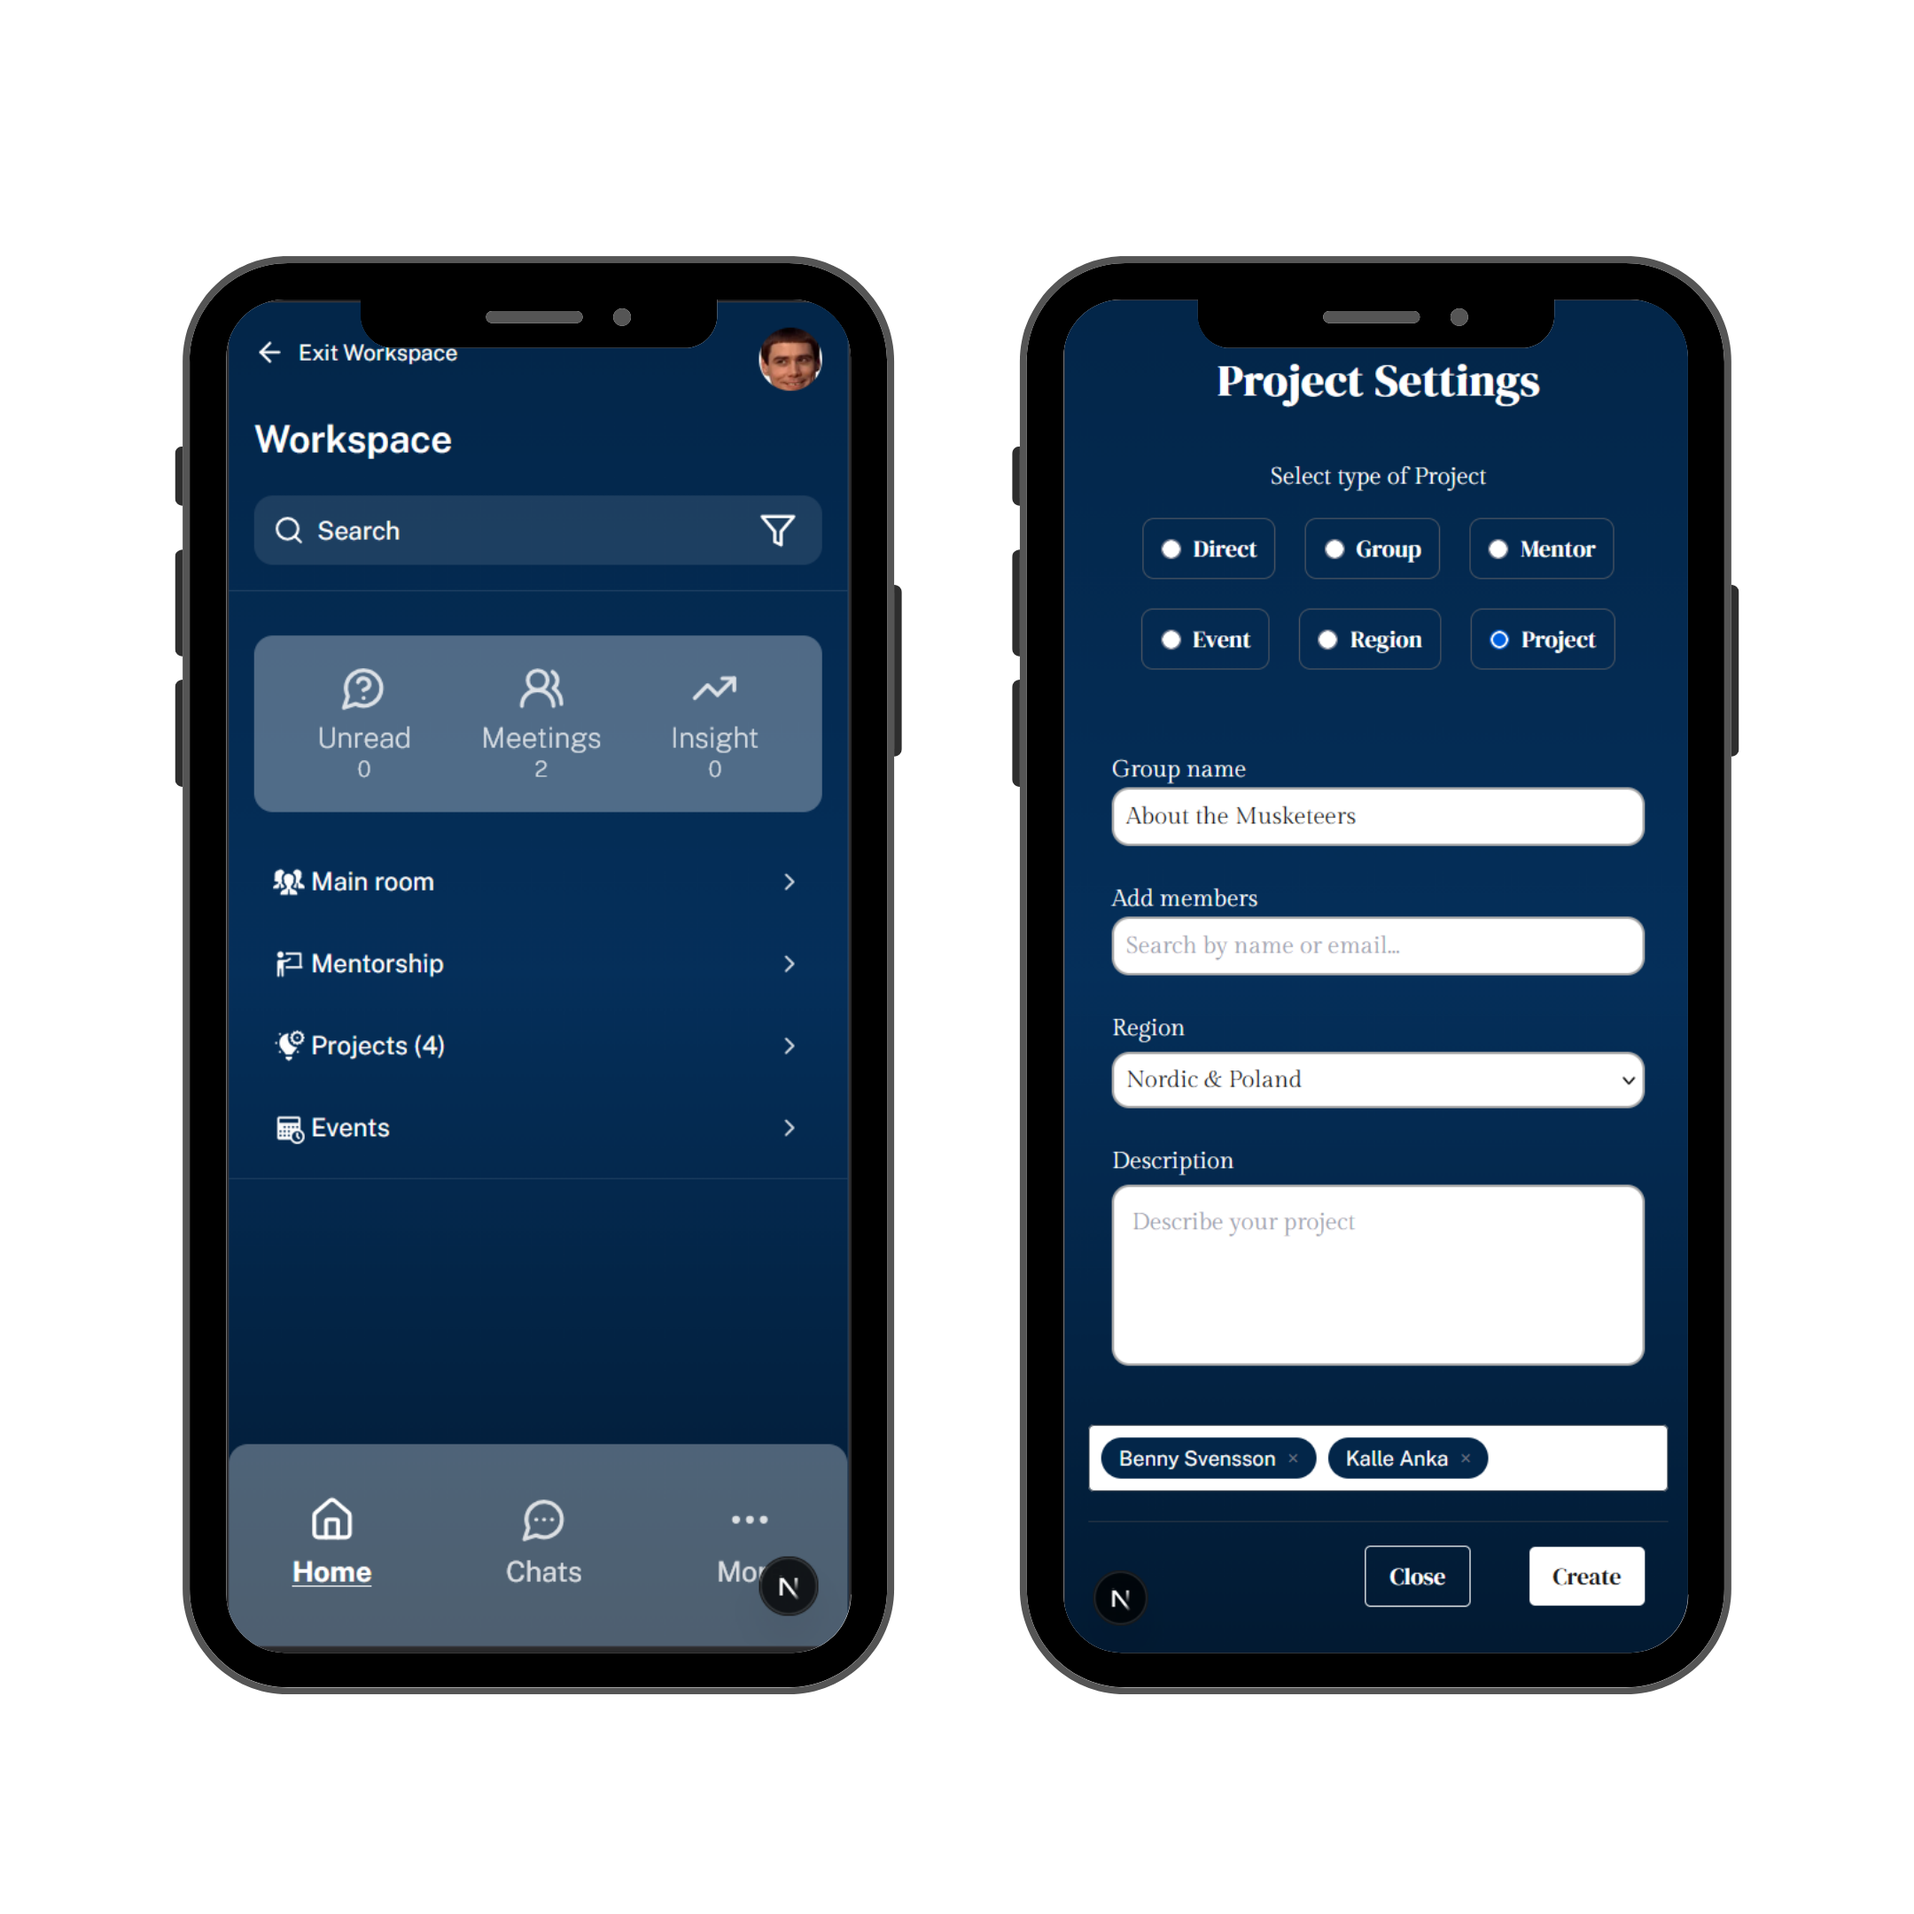
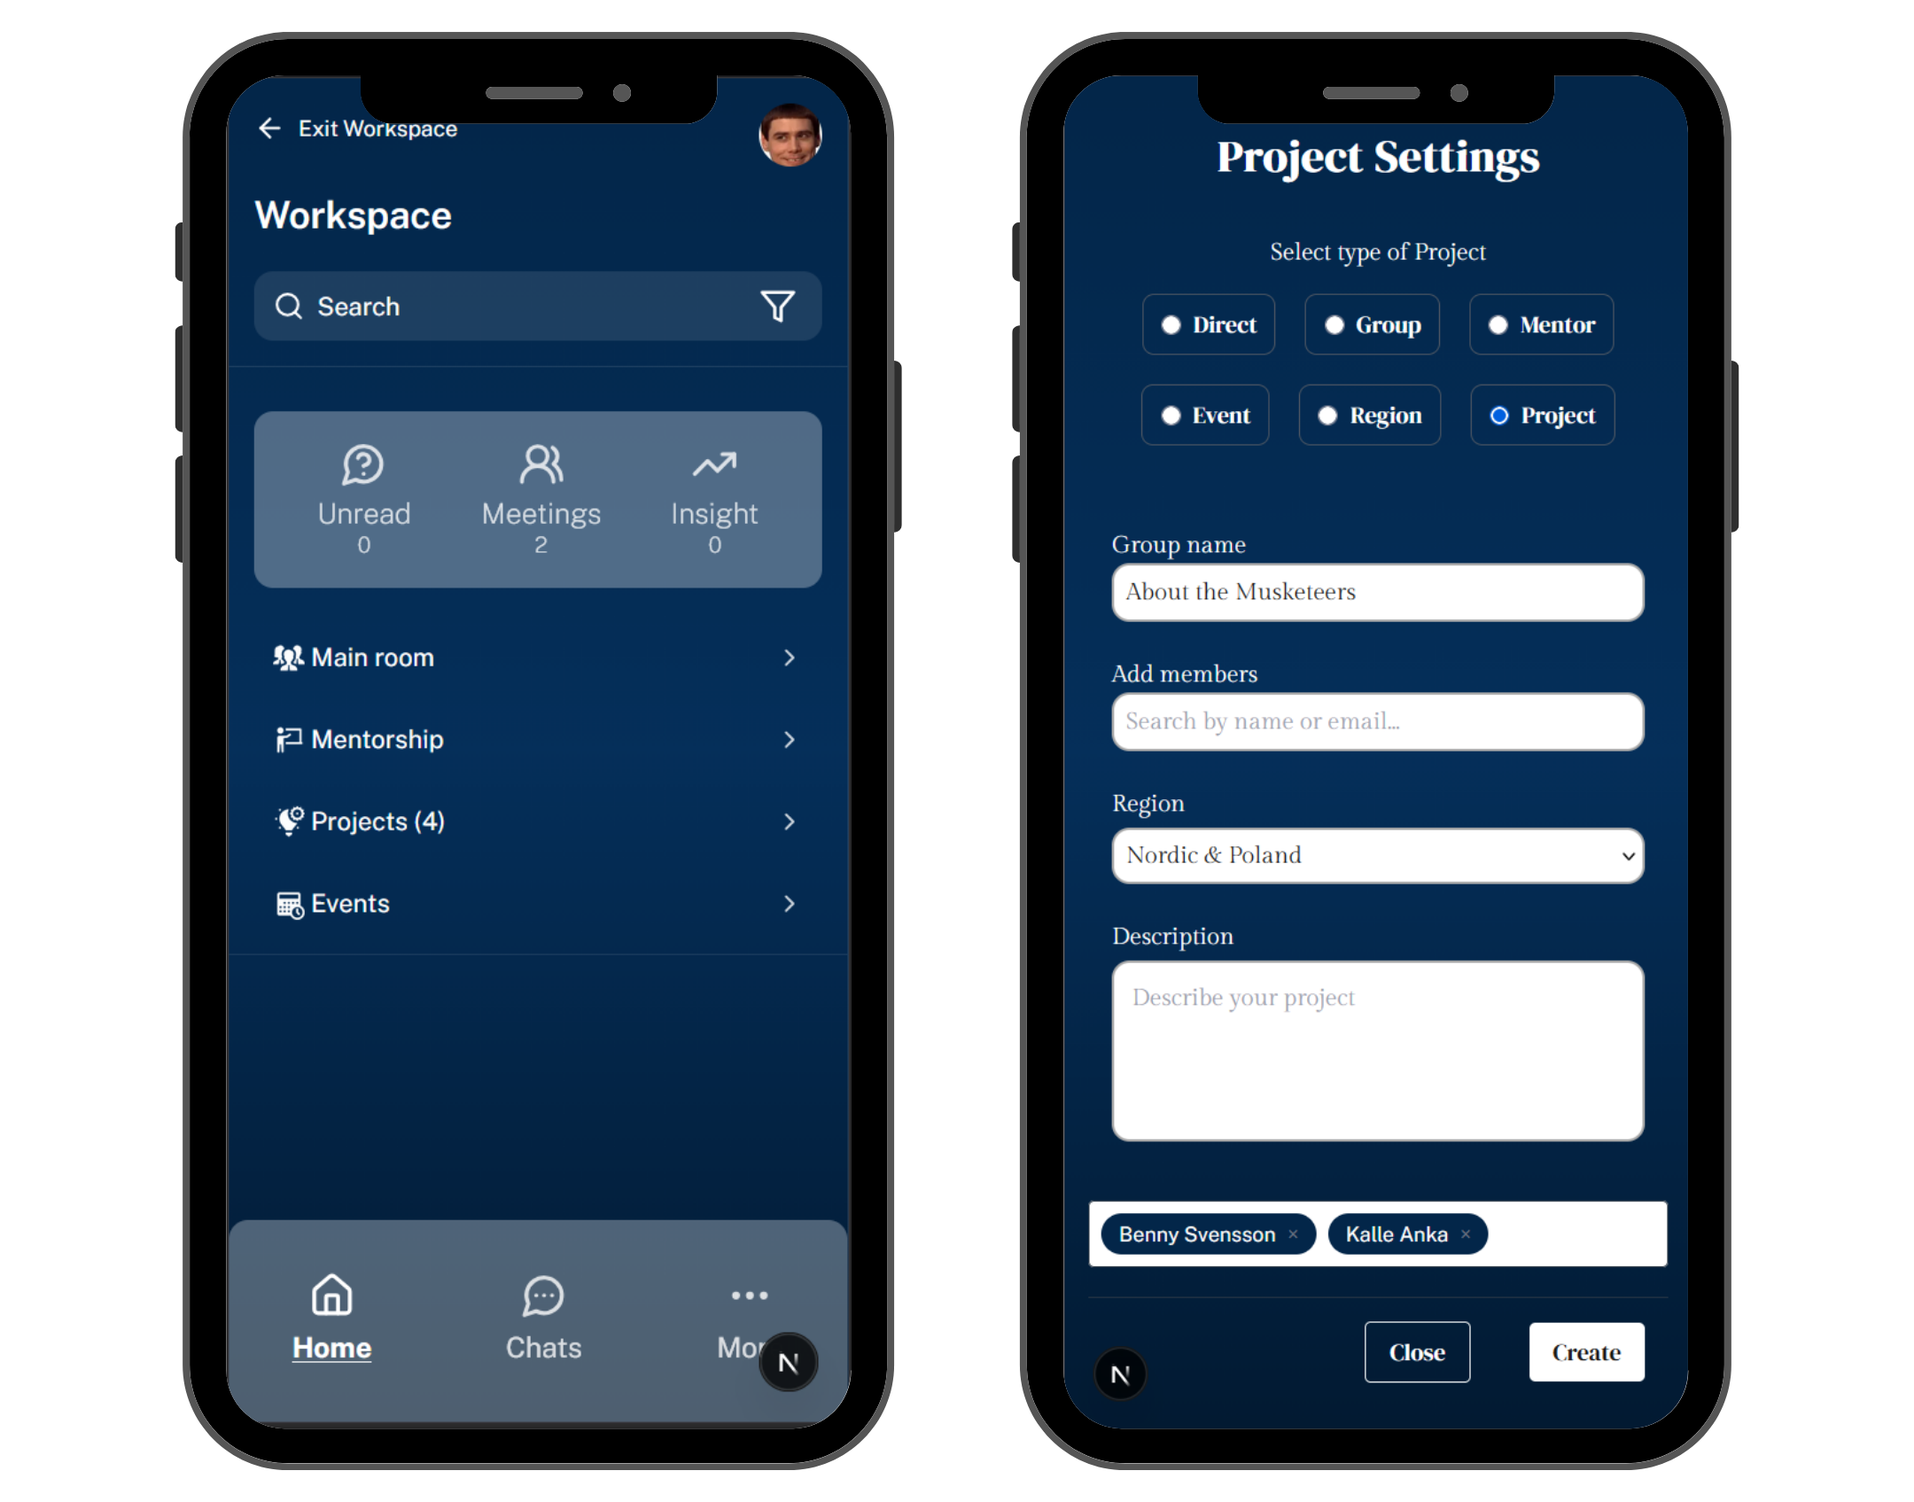
feat(internship): replaced images

diff --git a/components/sections/Featured.tsx b/components/sections/Featured.tsx
@@ -16,32 +16,34 @@ const Featured = () => {
   return (
     <motion.section
       id="featured"
-      className="relative z-10 bg-[#F0F0F0]  text-black min-h-screen"
+      className="relative z-10 bg-[#ededed] text-black py-10"
       initial="hidden"
       whileInView="visible"
       variants={sectionVariants}
       viewport={{ once: true, amount: 0.25 }}
     >
-      <div className="  mx-auto min-h-screen text-black bg-none w-full px-4 md:pb-10">
-        <div className="grid grid-cols-1 lg:grid-cols-2 min-h-screen -mx-4 items-center">
-          <div className="relative min-h-[60vw] lg:min-h-0  aspect-[3/3]">
+      <div className="  mx-auto  text-black bg-none w-full px-4 md:pb-10">
+        {" "}
+        <div className="flex flex-col lg:grid lg:grid-cols-2 -mx-4 items-center">
+          <div className="relative w-[60%] lg:w-[80%]  mx-auto aspect-[3/3]  lg:min-h-0">
             <Image
               src="/images/internship_mobiles.png"
               alt="Experience"
               fill
-              className="object-cover "
+              className="object-cover overflow-visible lg:ml-5"
             />
           </div>
-          <div className="relative flex flex-col items-center justify-start lg:justify-center px-6 mt-4 sm:my-6 lg:my-0 lg:px-10 gap-[clamp(2.2rem,4vw,3rem)] max-w-lg md:max-w-5xl 2xl:max-w-5xl mx-auto">
-            <div className="lg:px-8 flex flex-col items-center gap-2">
-              <h2 className="font-gilda text-2xl lg:text-6xl text-center ">
-                Internship 2026
-              </h2>
-              <ul className="space-y-4 mt-5 text-sm font-light sm:text-xl lg:mt-5">
+          <div className=" flex flex-col items-start justify-start lg:justify-center px-6 mt-4 lg:my-0 lg:px-10    md:max-w-5xl 2xl:max-w-5xl mx-auto gap-3 md:gap-5">
+            <h3 className="font-gilda text-3xl sm:text-5xl md:text-6xl font-semibold tracking-[0.03em]  shrink-0 w-full lg:text-center">
+              Internship
+            </h3>
+
+            <div className="lg:px-8 flex flex-col items-start lg:items-center justify-start gap-2">
+              <ul className="space-y-4  text-sm font-light sm:text-xl lg:mt-5">
                 <li className="flex items-start ">
                   <span
                     aria-hidden="true"
-                    className="pr-2  text-xs text-[#0B0B0B] sm:text-xl font-bold"
+                    className="pr-2  text-xs  sm:text-xl font-bold"
                   >
                     +
                   </span>
@@ -51,7 +53,7 @@ const Featured = () => {
                 <li className="flex items-start ">
                   <span
                     aria-hidden="true"
-                    className="pr-2  text-xs text-[#0B0B0B] sm:text-xl font-bold"
+                    className="pr-2  text-xs  sm:text-xl font-bold"
                   >
                     +
                   </span>
@@ -61,7 +63,7 @@ const Featured = () => {
                 <li className="flex items-start ">
                   <span
                     aria-hidden="true"
-                    className="pr-2  text-xs text-[#0B0B0B] sm:text-xl font-bold"
+                    className="pr-2  text-xs  sm:text-xl font-bold"
                   >
                     +
                   </span>
@@ -69,7 +71,7 @@ const Featured = () => {
                 </li>
               </ul>
             </div>
-            {/* <figure className="absolute bottom-60 sm:-bottom-20 lg:bottom-10 left-0 right-0 px-8 md:px-14">
+            <figure className=" px-8 md:px-14 mt-5 mx-auto">
               <figcaption className="sr-only">
                 Technologies I use: Next.js, Tailwind CSS, React, TypeScript.
               </figcaption>
@@ -128,7 +130,7 @@ const Featured = () => {
                   </span>
                 </div>
               </div>
-            </figure> */}
+            </figure>
           </div>
         </div>
       </div>

diff --git a/components/sections/CurrentlyBuilding.tsx b/components/sections/CurrentlyBuilding.tsx
@@ -2,21 +2,12 @@ import Image from "next/image";
 
 const CurrentlyBuilding = () => {
   return (
-    <div className="mx-auto max-w-[1500px]  text-black sm:pt-48 lg:pt-20">
+    <div className="mx-auto max-w-[1500px]   text-black  px-4">
       {/* Header */}
-      <div className="flex flex-col px-4 py-4 ">
-        <h3 className="font-gilda text-3xl sm:text-5xl md:text-6xl font-semibold tracking-[0.03em] text-[#1B1B1B] shrink-0 w-full">
-          Currently building
-        </h3>
-        <p className="text-sm sm:text-base md:text-xl  my-2 md:my-10 text-center">
-          A memory-based fashion reconstruction game disguised as an ecommerce
-          storefront.
-        </p>
-      </div>
 
-      <div className="md:grid md:grid-cols-2 md:items-center -mx-[max(0px,calc((100vw-1500px)/2))]">
+      <div className="md:grid md:grid-cols-2 md:items-center -mx-[max(0px,calc((100vw-1500px)/2))]  ">
         {/* Image */}
-        <div className="relative aspect-[3/4] ">
+        <div className="relative aspect-[3/4] -mx-4">
           <Image
             src="/images/fregoli_poster.png"
             alt="Experience"
@@ -26,8 +17,16 @@ const CurrentlyBuilding = () => {
         </div>
 
         {/* List */}
-        <div className=" py-10 flex flex-col items-center gap-10 justify-center">
-          <ul className="list-disc list-inside space-y-3 text-base sm:text-lg self-center lg:text-xl xl:text-2xl ">
+        <div className=" py-4 flex flex-col items-center gap-3 justify-center  -mx-4">
+          {" "}
+          <h3 className="font-gilda text-3xl sm:text-5xl md:text-6xl font-semibold tracking-[0.03em] shrink-0 w-full text-center">
+            Building
+          </h3>{" "}
+          <p className="text-sm sm:text-base lg:text-xl font-light text-center md:max-w-[350px] md:ml-6">
+            A memory-based fashion reconstruction game disguised as an ecommerce
+            storefront.
+          </p>
+          <ul className="list-disc list-inside mt-5 space-y-3 text-base sm:text-lg self-center lg:text-xl xl:text-2xl md:ml-6">
             <li>Clothing API integration</li>
             <li>Realtime leaderboard with Supabase</li>
             <li>State-driven gameplay flow</li>
@@ -35,7 +34,7 @@ const CurrentlyBuilding = () => {
           </ul>{" "}
           <a
             href="https://github.com/julsandstrom/fregoli"
-            className="underline lg:text-xl xl:text-2xl"
+            className="underline lg:text-xl xl:text-2xl my-5"
           >
             Github for the project (in progress)
           </a>

diff --git a/components/sections/Projects.tsx b/components/sections/Projects.tsx
@@ -24,11 +24,11 @@ export default function Projects() {
   return (
     <section
       id="work"
-      className="bg-[#F0F0F0] text-black py-10 sm:py-20 sm:pt-48 lg:pt-20 "
+      className="  text-black py-10 sm:py-20 sm:pt-48 lg:pt-20 "
     >
       <div className="max-w-[1500px] mx-auto w-full pl-5 sm:pl-11 lg:pl-14  flex flex-col justify-center">
         <div className="flex flex-wrap items-end gap-x-6 gap-y-4 pr-5 sm:pr-11 lg:pr-14">
-          <h3 className="font-gilda text-3xl sm:text-5xl md:text-6xl font-semibold tracking-[0.03em] text-[#1B1B1B] shrink-0 w-full">
+          <h3 className="font-gilda text-3xl sm:text-5xl md:text-6xl font-semibold tracking-[0.03em]  shrink-0 w-full">
             Projects
           </h3>
 
@@ -115,7 +115,7 @@ export default function Projects() {
       "
                   />
                   <div className="flex items-center px-4 pt-3">
-                    <h3 className="text-2xl sm:text-3xl font-semibold text-[#1B1B1B] flex">
+                    <h3 className="text-2xl sm:text-3xl font-semibold  flex">
                       {p.title}
                     </h3>
                   </div>

diff --git a/app/layout.tsx b/app/layout.tsx
@@ -60,7 +60,7 @@ export default function RootLayout({
       lang="en"
       className={`${ibm.variable} ${clashDisplay.variable} ${gildaDisplay.variable}`}
     >
-      <body className="overflow-y-scroll  scroll-smooth motion-reduce:scroll-auto bg-[#0B0B0B] text-[#F4F3F1]">
+      <body className="overflow-y-scroll  scroll-smooth motion-reduce:scroll-auto bg-[#ededed]">
         <Header />
         {children} <Footer />
       </body>

diff --git a/components/sections/Hero.tsx b/components/sections/Hero.tsx
@@ -18,7 +18,7 @@ const Hero = () => {
     <section
       id="main"
       aria-labelledby="heroTitle"
-      className="sticky top-0 h-screen flex items-center justify-center bg-[#F0F0F0] text-black"
+      className="sticky top-0 h-screen flex items-center justify-center  text-black"
     >
       <div
         aria-hidden="true"

diff --git a/app/page.tsx b/app/page.tsx
@@ -21,7 +21,7 @@ export default function Home() {
           <Featured />
         </div>
         <Projects />
-        <CurrentlyBuilding />
+        {/* <CurrentlyBuilding /> */}
       </main>
     </>
   );

diff --git a/app/globals.css b/app/globals.css
@@ -17,7 +17,6 @@
 }
 
 body {
-  background: var(--background);
   color: var(--foreground);
   font-family: var(--font-sans);
 }
